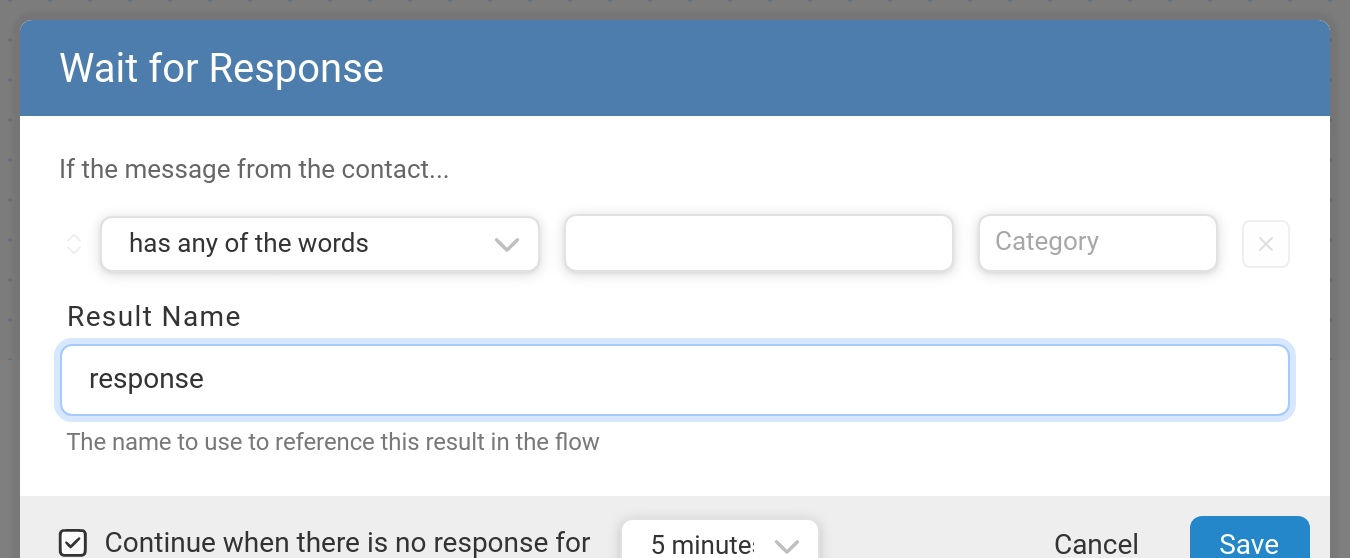
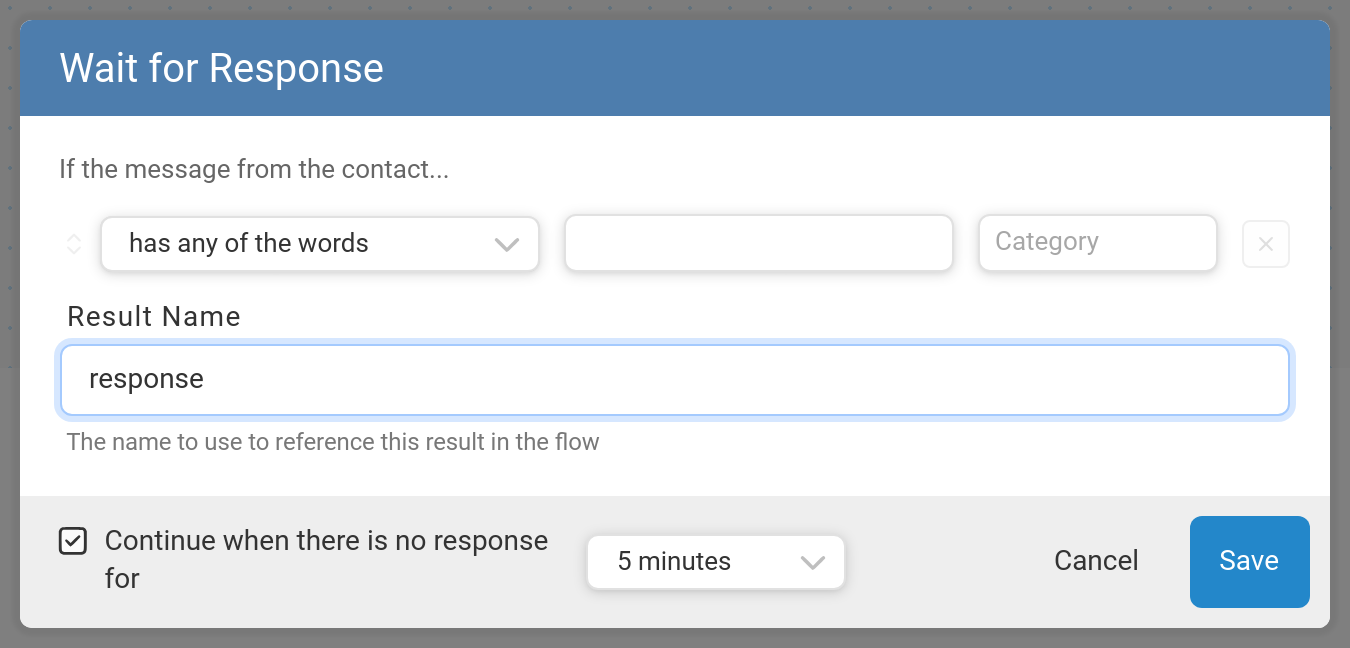
Fix wait_for_response screenshot size and use outline for drag placeholder
Regenerate wait_for_response truth screenshots at correct dimensions.
Use CSS outline instead of border for drag placeholder to avoid layout
shift without affecting element dimensions.

diff --git a/src/list/SortableList.ts b/src/list/SortableList.ts
@@ -322,14 +322,14 @@ export class SortableList extends RapidElement {
     // Copy dimensions from the original element (before it was hidden)
     if (this.originalElementRect) {
       const rect = this.originalElementRect;
-      this.dropPlaceholder.style.boxSizing = 'border-box';
       this.dropPlaceholder.style.width = rect.width + 'px';
       this.dropPlaceholder.style.height = rect.height + 'px';
       this.dropPlaceholder.style.minHeight = rect.height + 'px';
       this.dropPlaceholder.style.borderRadius = 'var(--curvature)';
       this.dropPlaceholder.style.flexShrink = '0';
       this.dropPlaceholder.style.background = '#f3f4f6';
-      this.dropPlaceholder.style.border = '2px dashed #d1d5db';
+      this.dropPlaceholder.style.outline = '2px dashed #d1d5db';
+      this.dropPlaceholder.style.outlineOffset = '-2px';
     }
 
     // Insert the placeholder in the correct position in the DOM
@@ -355,14 +355,14 @@ export class SortableList extends RapidElement {
 
     // Copy dimensions from the original element
     const rect = this.originalElementRect;
-    this.dropPlaceholder.style.boxSizing = 'border-box';
     this.dropPlaceholder.style.width = rect.width + 'px';
     this.dropPlaceholder.style.height = rect.height + 'px';
     this.dropPlaceholder.style.minHeight = rect.height + 'px';
     this.dropPlaceholder.style.borderRadius = 'var(--curvature)';
     this.dropPlaceholder.style.flexShrink = '0';
     this.dropPlaceholder.style.background = '#f3f4f6';
-    this.dropPlaceholder.style.border = '2px dashed #d1d5db';
+    this.dropPlaceholder.style.outline = '2px dashed #d1d5db';
+    this.dropPlaceholder.style.outlineOffset = '-2px';
 
     // Insert the placeholder right after the hidden original element
     this.downEle.insertAdjacentElement('afterend', this.dropPlaceholder);
